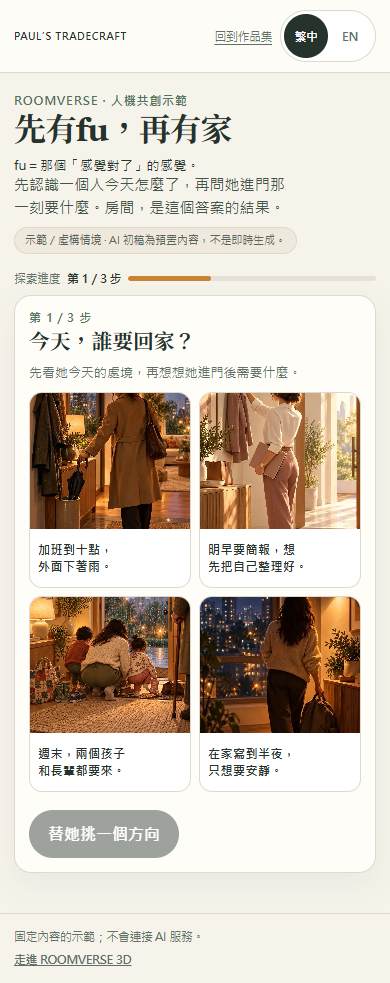
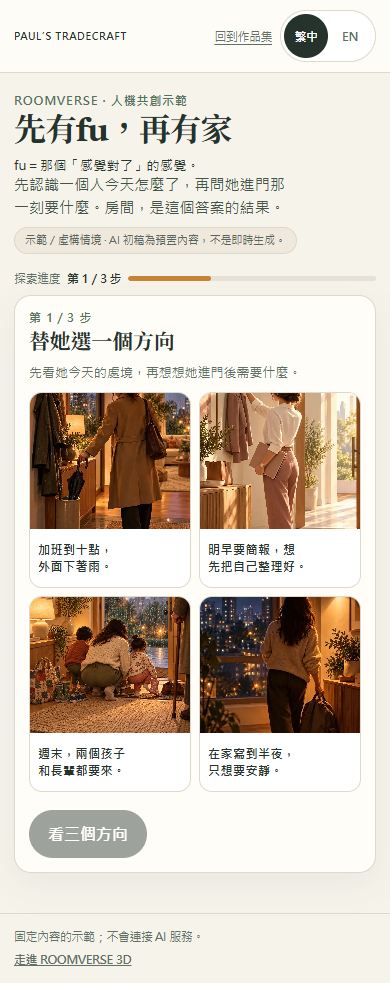
fix: refine Feeling First Chinese step headings

Changed region(s): [[0.1231, 0.824, 0.4615, 0.885], [0.0615, 0.3357, 0.4923, 0.3662]]

diff --git a/tests/feeling-to-room.spec.js b/tests/feeling-to-room.spec.js
@@ -76,7 +76,8 @@ for (const [lang,width] of contexts) {
     await page.setViewportSize({ width, height: width === 390 ? 844 : 1000 });
     await page.goto(`/prototype/feeling-to-room/?lang=${lang}`);
     await expect(page.locator("h1")).toHaveText(lang === "zh" ? "先有fu，再有家" : "Feeling First");
-    await expect(page.locator("#step-heading")).toHaveText(lang === "zh" ? "今天，誰要回家？" : "Who is coming home today?");
+    await expect(page.locator("#step-heading")).toHaveText(lang === "zh" ? "替她選一個方向" : "Who is coming home today?");
+    if (lang === "zh") await expect(page.locator('[data-action="continue-mood"]')).toHaveText("看三個方向");
     await expect(page.locator("#progress-text")).toHaveText(lang === "zh" ? "第 1／3 步" : "Step 1 of 3");
     await expect(page.locator("[data-mood]")).toHaveCount(4);
     await expect(page.locator(".mood-card img")).toHaveCount(4);
@@ -109,7 +110,7 @@ for (const mood of moods) {
       await page.locator(`[data-mood="${mood}"]`).click();
       await expect(page.locator(`[data-mood="${mood}"]`)).toHaveAttribute("aria-pressed", "true");
       await page.locator('[data-action="continue-mood"]').click();
-      await expect(page.locator("#step-heading")).toHaveText(lang === "zh" ? "替她挑一個方向" : "Pick a direction for them");
+      await expect(page.locator("#step-heading")).toHaveText(lang === "zh" ? "她會先挑哪一個？" : "Pick a direction for them");
       await expect(page.locator('input[name="draft"]')).toHaveCount(3);
       if (mood === "family" && lang === "zh") {
         await checkImages(page);

diff --git a/public/prototype/feeling-to-room/app.js b/public/prototype/feeling-to-room/app.js
@@ -4,8 +4,8 @@ const copy = {
     dek: "先認識一個人今天怎麼了，再問她進門那一刻要什麼。房間，是這個答案的結果。",
     boundary: "示範／虛構情境 · AI 初稿為預置內容，不是即時生成。", progressLabel: "探索進度",
     footer: "固定內容的示範；不會連接 AI 服務。", roomverse: "走進 ROOMVERSE 3D",
-    step: n => `第 ${n}／3 步`, step1: "今天，誰要回家？", step1Note: "先看她今天的處境，再想想她進門後需要什麼。",
-    continueMood: "替她挑一個方向", step2: "替她挑一個方向",
+    step: n => `第 ${n}／3 步`, step1: "替她選一個方向", step1Note: "先看她今天的處境，再想想她進門後需要什麼。",
+    continueMood: "看三個方向", step2: "她會先挑哪一個？",
     step2Note: "三個都是預置 AI 初稿；先看哪個方向更照顧眼前的需要。",
     draftBadge: "AI 初稿（預置示範）",
     reasonLegend: "我為什麼先選它？", reasons: ["她進門就能放下", "家人走動順", "平常好整理", "能和現有家具搭"],
